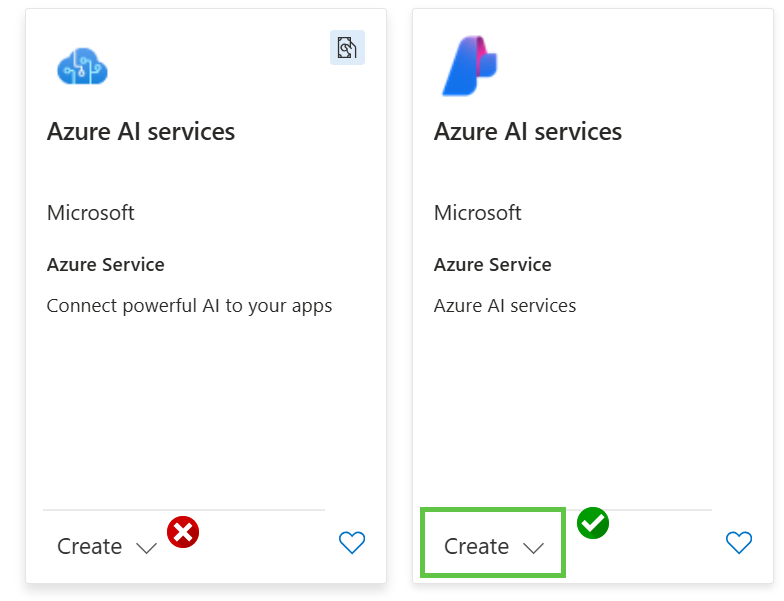
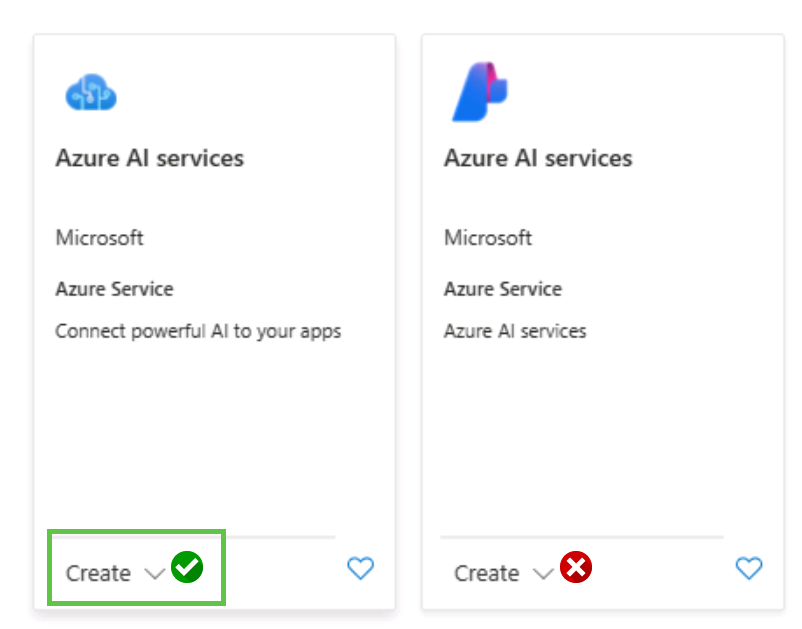
Update.

diff --git a/Instructions/Labs/03-image-analysis.md b/Instructions/Labs/03-image-analysis.md
@@ -17,8 +17,8 @@ You can use Azure AI Vision's image analysis capabilities with an **Azure AI ser
 
 1. Click the **&#65291;Create a resource** button and search for *Azure AI services* Select the option *Azure services only* under the search bar to narrow down your search.
 
-1. Select the instance of *Azure AI services* that has the description *Azure AI services*, **not** *Connect powerful AI to your apps*.
-    ![A screenshot of the two Azure AI services resources in the marketplace, with an indication to select the one with a purple logo.](./media/analyze-images-vision/azure-ai-services-resource.png)
+1. Select the instance of *Azure AI services* that has the description *Connect powerful AI to your apps*.
+    ![A screenshot of the two Azure AI services resources in the marketplace, with an indication to select the one with a blue logo.](./media/analyze-images-vision/azure-ai-services-resource.png)
    
 1. Select **create** an **Azure AI services** plan. You will be taken to a page to create an Azure AI services resource. Configure it with the following settings:
     - **Subscription**: *Your Azure subscription*.
